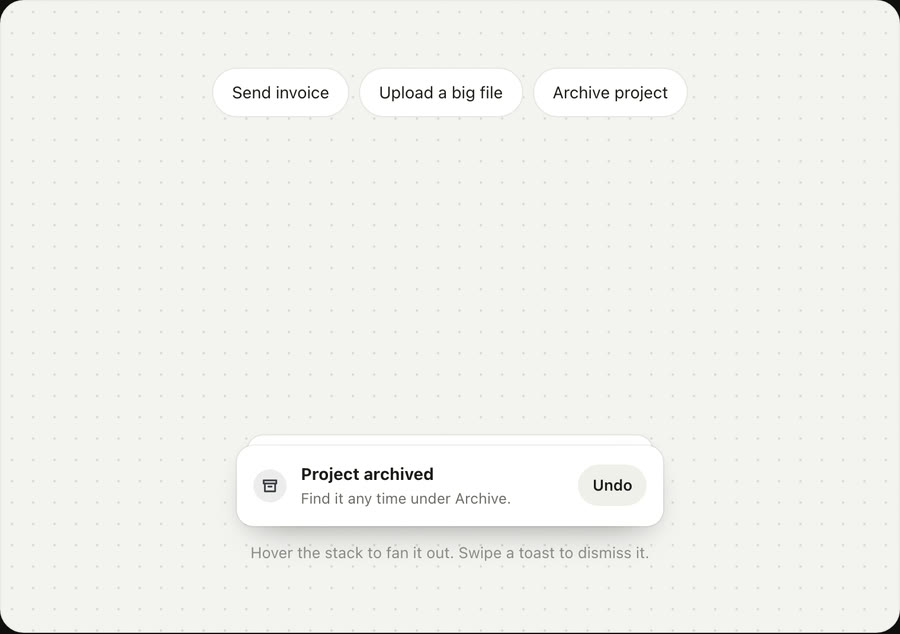
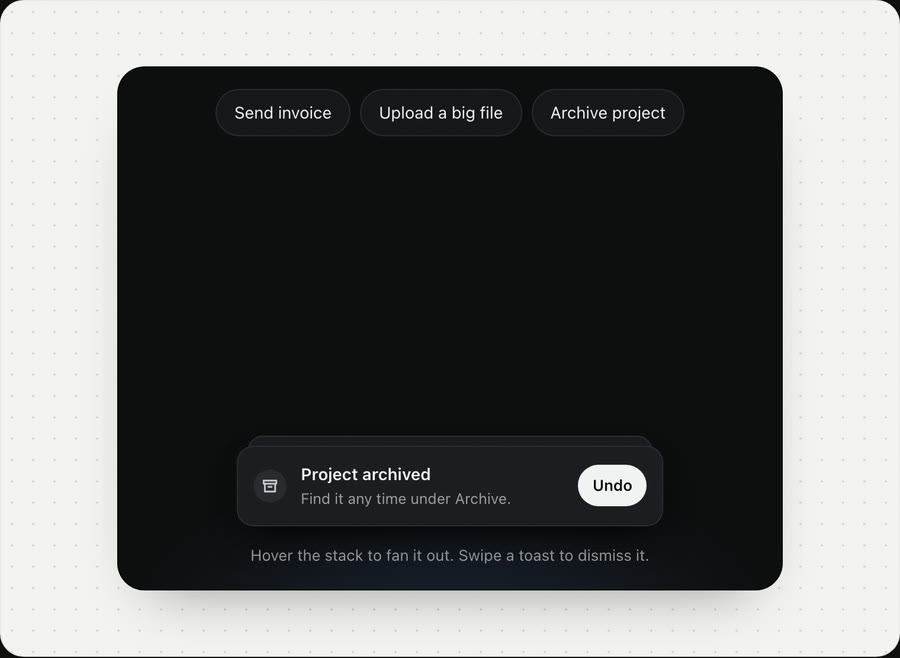
Playground: dark toast stack (12 of 16 dark), remove the Concepts section

diff --git a/components/lab/ToastStack.module.css b/components/lab/ToastStack.module.css
@@ -1,18 +1,22 @@
-.wrap { width: 100%; min-height: 420px; display: grid; grid-template-rows: auto 1fr auto; gap: 12px; font-family: var(--q-font); }
+/* A dark panel, like the other stage pieces, with the toasts stacking from its bottom edge */
+.wrap { width: 100%; max-width: 560px; min-height: 440px; display: grid; grid-template-rows: auto 1fr auto; gap: 14px; padding: 18px; border-radius: 22px; background: radial-gradient(70% 50% at 50% 110%, #1a2230, transparent 70%), #0e0e10; color: #f2f2f3; font-family: var(--q-font); box-shadow: 0 0 0 1px #000, 0 24px 48px -28px rgb(0 0 0 / .45); color-scheme: dark; overflow: hidden; }
 .buttons { display: flex; flex-wrap: wrap; gap: 8px; justify-content: center; }
-.buttons button { all: unset; height: 40px; padding: 0 16px; border-radius: 999px; background: var(--raise); border: 1px solid var(--line); color: var(--ink); font-size: 14px; cursor: pointer; transition: transform 140ms var(--ease-out); }
+.buttons button { all: unset; height: 40px; padding: 0 16px; border-radius: 999px; background: #17171a; box-shadow: inset 0 0 0 1px #2a2a30; color: #f2f2f3; font-size: 14px; cursor: pointer; transition: transform 140ms var(--ease-out), background 140ms ease; }
+@media (hover: hover) and (pointer: fine) { .buttons button:hover { background: #1f1f23; } }
 .buttons button:active { transform: scale(0.97); }
-.buttons button:focus-visible { outline: 2px solid var(--ink); outline-offset: 2px; }
+.buttons button:focus-visible { outline: 2px solid #4c8dff; outline-offset: 2px; }
 .stack { list-style: none; margin: 0; padding: 0; position: relative; align-self: end; justify-self: center; width: min(360px, 100%); height: 76px; }
-.toast { position: absolute; inset: auto 0 0 0; height: 68px; box-sizing: border-box; display: grid; grid-template-columns: 28px 1fr auto; gap: 12px; align-items: center; padding: 12px 14px; border-radius: 14px; background: #fff; color: #1b1b1a; box-shadow: 0 0 0 1px rgb(0 0 0 / .06), 0 4px 12px rgb(0 0 0 / .05), 0 16px 32px -16px rgb(0 0 0 / .25); transform-origin: bottom center; touch-action: pan-y; cursor: grab; }
+.toast { position: absolute; inset: auto 0 0 0; height: 68px; box-sizing: border-box; display: grid; grid-template-columns: 28px 1fr auto; gap: 12px; align-items: center; padding: 12px 14px; border-radius: 14px; background: #1c1c20; color: #f2f2f3; box-shadow: inset 0 0 0 1px #2c2c32, inset 0 1px 0 rgb(255 255 255 / .05), 0 16px 32px -12px rgb(0 0 0 / .7); transform-origin: bottom center; touch-action: pan-y; cursor: grab; }
 .icon { width: 28px; height: 28px; border-radius: 50%; display: grid; place-items: center; }
-.success .icon { background: #dff3e6; color: #157a3e; }
-.error .icon { background: #fde4e4; color: #c62828; }
-.undo .icon { background: #ececec; color: #3c3c43; }
+.success .icon { background: #173823; color: #4cd97b; }
+.error .icon { background: #3d1a1a; color: #ff7a70; }
+.undo .icon { background: #2a2a30; color: #c7c7cc; }
 .text { display: grid; min-width: 0; }
-.text b { font-size: 14px; }
-.text span { font-size: 12.5px; color: #6b6a66; white-space: nowrap; overflow: hidden; text-overflow: ellipsis; }
-.action { all: unset; font-size: 13px; font-weight: 600; padding: 7px 12px; border-radius: 999px; background: #f0efeb; cursor: pointer; }
-.close { all: unset; width: 28px; height: 28px; display: grid; place-items: center; border-radius: 50%; font-size: 18px; color: #6b6a66; cursor: pointer; }
-.action:focus-visible, .close:focus-visible { outline: 2px solid #1b1b1a; outline-offset: 2px; }
-.hint { margin: 0; text-align: center; font-size: 13px; color: var(--faint); }
+.text b { font-size: 14px; font-weight: 600; }
+.text span { font-size: 12.5px; color: #9d9da3; white-space: nowrap; overflow: hidden; text-overflow: ellipsis; }
+.action { all: unset; font-size: 13px; font-weight: 600; padding: 7px 12px; border-radius: 999px; background: #f2f2f3; color: #0e0e10; cursor: pointer; }
+.close { all: unset; width: 28px; height: 28px; display: grid; place-items: center; border-radius: 50%; color: #9d9da3; cursor: pointer; }
+@media (hover: hover) and (pointer: fine) { .close:hover { background: #2a2a30; color: #f2f2f3; } }
+.action:focus-visible, .close:focus-visible { outline: 2px solid #4c8dff; outline-offset: 2px; }
+.hint { margin: 0; text-align: center; font-size: 13px; color: #9d9da3; }
+@media (max-width: 480px) { .wrap { padding: 12px; } }

diff --git a/app/playground/page.tsx b/app/playground/page.tsx
@@ -1,13 +1,12 @@
 import Link from "next/link";
 import { Header } from "@/components/Header";
-import { Shot } from "@/components/Shot";
 import { LabGrid } from "@/components/lab/LabGrid";
 import { lab } from "@/lib/lab";
-import { playground, site } from "@/lib/content";
+import { site } from "@/lib/content";
 
 export const metadata = {
   title: `Playground — ${site.name}`,
-  description: "Small experiments in mobile, web and motion, most of them live. Plus a concept from Figma.",
+  description: "Small experiments in mobile, web and motion, most of them live.",
 };
 
 export default function Playground() {
@@ -24,13 +23,6 @@ export default function Playground() {
 
         <section aria-label="Experiments" className="lab-index">
           <LabGrid items={lab} />
-        </section>
-
-        <section aria-labelledby="sc-h" style={{ marginTop: 64 }}>
-          <div className="sh"><h2 id="sc-h">Concepts</h2><span className="hint">From Figma</span></div>
-          <div className="gallery">
-            {playground.filter((s) => !s.live).map((s) => <Shot key={s.src} item={s} />)}
-          </div>
         </section>
       </main>
       <footer><Link href="/">← Home</Link><Link href="/#contact">Get in touch →</Link></footer>

diff --git a/app/playground/[slug]/page.tsx b/app/playground/[slug]/page.tsx
@@ -9,7 +9,7 @@ export const dynamicParams = false;
 
 // About 70% of the Playground is dark. Dark phone screens get a white status bar,
 // and dark web pieces get a dark window bar.
-const darkScreens = new Set(["card-stack", "swipe-to-pay", "music-scrubber", "smart-home", "command-palette", "ai-prompt", "money-dashboard", "week-calendar", "spring-tuner", "card-to-detail", "button-states"]);
+const darkScreens = new Set(["card-stack", "swipe-to-pay", "music-scrubber", "smart-home", "command-palette", "ai-prompt", "toast-stack", "money-dashboard", "week-calendar", "spring-tuner", "card-to-detail", "button-states"]);
 // Live Activity draws its own island, because the island is the experiment.
 const ownIsland = new Set<string>();
 
